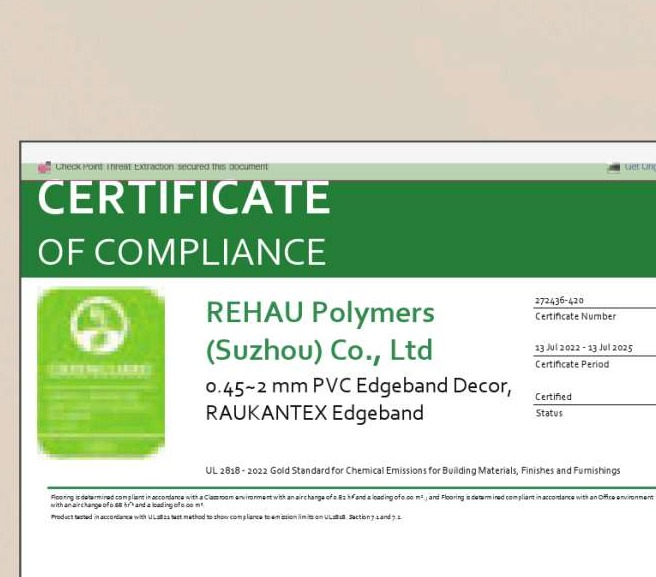
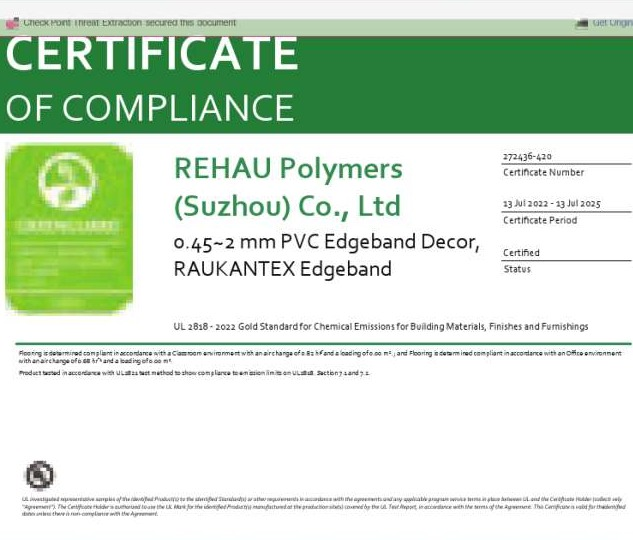
fix(material): GREENGUARD 인증서 배경 제거 + 인증서/성적서 카드 스타일 통일
- cert-decor/cert-uni: 베이지 배경 제거, 문서 영역만 크롭
- 인증서 카드 스타일 통일 (.test-cert-card 공유)
- 카드 크기 제한(max-width 280px) + 라벨 영역 정렬

diff --git a/material.html b/material.html
@@ -238,15 +238,19 @@
       }
       .test-certs-grid {
         display: flex;
-        gap: 16px;
+        gap: 20px;
+        flex-wrap: wrap;
       }
       .test-cert-card {
         flex: 1;
+        min-width: 200px;
+        max-width: 280px;
         border-radius: 10px;
         overflow: hidden;
         box-shadow: 0 2px 12px rgba(0,0,0,0.08);
         background: #fff;
         text-align: center;
+        border: 1px solid var(--warm);
       }
       .test-cert-card img {
         width: 100%;
@@ -254,10 +258,12 @@
       }
       .test-cert-card span {
         display: block;
-        padding: 10px;
+        padding: 10px 12px;
         font-size: 12px;
-        font-weight: 500;
+        font-weight: 600;
         color: var(--charcoal);
+        background: var(--cream);
+        border-top: 1px solid var(--warm);
       }
       @media (max-width: 768px) {
         .test-results {
@@ -965,14 +971,16 @@
       </div>
 
       <!-- 인증서 -->
-      <div style="margin-top: 48px; display: flex; gap: 24px; justify-content: center; flex-wrap: wrap;">
-        <div style="border-radius: 12px; overflow: hidden; box-shadow: 0 4px 20px rgba(0,0,0,0.08); max-width: 320px;">
-          <img src="app/material/cert-decor.jpg" alt="GREENGUARD - Edgeband Décor" style="width: 100%; display: block;" loading="lazy" />
-          <div style="padding: 12px 16px; background: #fff; text-align: center; font-size: 13px; font-weight: 500;">Edgeband D&eacute;cor</div>
-        </div>
-        <div style="border-radius: 12px; overflow: hidden; box-shadow: 0 4px 20px rgba(0,0,0,0.08); max-width: 320px;">
-          <img src="app/material/cert-uni.jpg" alt="GREENGUARD - Edgeband Uni" style="width: 100%; display: block;" loading="lazy" />
-          <div style="padding: 12px 16px; background: #fff; text-align: center; font-size: 13px; font-weight: 500;">Edgeband Uni</div>
+      <div class="test-certs" style="margin-top: 48px;">
+        <div class="test-certs-grid" style="justify-content: center;">
+          <div class="test-cert-card">
+            <img src="app/material/cert-decor.jpg" alt="GREENGUARD - Edgeband Décor" loading="lazy" />
+            <span>Edgeband D&eacute;cor</span>
+          </div>
+          <div class="test-cert-card">
+            <img src="app/material/cert-uni.jpg" alt="GREENGUARD - Edgeband Uni" loading="lazy" />
+            <span>Edgeband Uni</span>
+          </div>
         </div>
       </div>
     </section>
